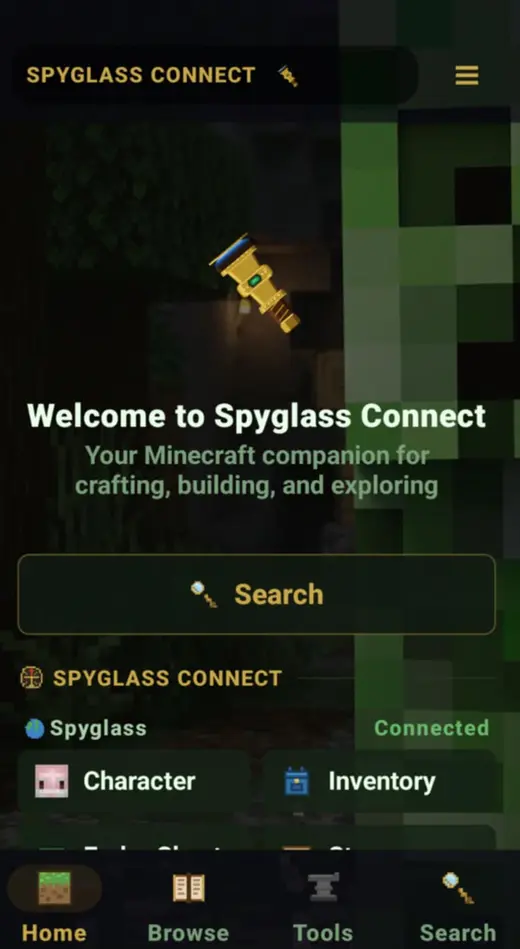
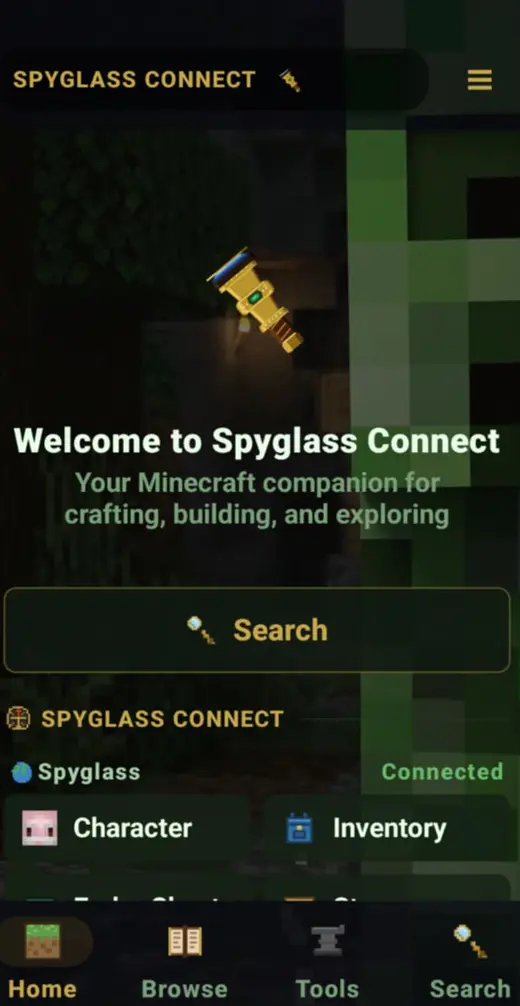
Warmer screenshot bg, brighter overlays, uniform screenshot sizes
Screenshots section: #543B30 -> #5C3A24 (more orange, less brown).
Hero overlay: 0.38 -> 0.48. Security overlay: 0.2 -> 0.3.
All 5 app screenshots re-exported to uniform 520x1006.

diff --git a/de/spyglass-connect.html b/de/spyglass-connect.html
@@ -153,7 +153,7 @@ body {
   top: 0; left: 0; right: 0;
   bottom: 80px;
   background: url('/images/hero-bg-mobile.webp') center top / cover no-repeat;
-  opacity: 0.38;
+  opacity: 0.48;
   z-index: 0;
   pointer-events: none;
   -webkit-mask-image: linear-gradient(to bottom, black 60%, transparent 100%);
@@ -384,7 +384,7 @@ section { position: relative; z-index: 1; padding: 5rem 1.5rem; }
    SCREENSHOTS SECTION
    ═══════════════════════════════════════ */
 .screenshots-section {
-  background: linear-gradient(to bottom, var(--bg-void) 0%, #543B30 8%, #543B30 92%, var(--bg-void) 100%);
+  background: linear-gradient(to bottom, var(--bg-void) 0%, #5C3A24 8%, #5C3A24 92%, var(--bg-void) 100%);
 }
 
 .howit-section {
@@ -401,7 +401,7 @@ section { position: relative; z-index: 1; padding: 5rem 1.5rem; }
   position: absolute;
   inset: 0;
   background: url('/images/screenshots-bg-mobile.webp') center center / cover no-repeat;
-  opacity: 0.2;
+  opacity: 0.3;
   z-index: 0;
   pointer-events: none;
   -webkit-mask-image: linear-gradient(to bottom, transparent 0%, black 15%, black 85%, transparent 100%);

diff --git a/es/spyglass-connect.html b/es/spyglass-connect.html
@@ -153,7 +153,7 @@ body {
   top: 0; left: 0; right: 0;
   bottom: 80px;
   background: url('/images/hero-bg-mobile.webp') center top / cover no-repeat;
-  opacity: 0.38;
+  opacity: 0.48;
   z-index: 0;
   pointer-events: none;
   -webkit-mask-image: linear-gradient(to bottom, black 60%, transparent 100%);
@@ -384,7 +384,7 @@ section { position: relative; z-index: 1; padding: 5rem 1.5rem; }
    SCREENSHOTS SECTION
    ═══════════════════════════════════════ */
 .screenshots-section {
-  background: linear-gradient(to bottom, var(--bg-void) 0%, #543B30 8%, #543B30 92%, var(--bg-void) 100%);
+  background: linear-gradient(to bottom, var(--bg-void) 0%, #5C3A24 8%, #5C3A24 92%, var(--bg-void) 100%);
 }
 
 .howit-section {
@@ -401,7 +401,7 @@ section { position: relative; z-index: 1; padding: 5rem 1.5rem; }
   position: absolute;
   inset: 0;
   background: url('/images/screenshots-bg-mobile.webp') center center / cover no-repeat;
-  opacity: 0.2;
+  opacity: 0.3;
   z-index: 0;
   pointer-events: none;
   -webkit-mask-image: linear-gradient(to bottom, transparent 0%, black 15%, black 85%, transparent 100%);

diff --git a/fr/spyglass-connect.html b/fr/spyglass-connect.html
@@ -153,7 +153,7 @@ body {
   top: 0; left: 0; right: 0;
   bottom: 80px;
   background: url('/images/hero-bg-mobile.webp') center top / cover no-repeat;
-  opacity: 0.38;
+  opacity: 0.48;
   z-index: 0;
   pointer-events: none;
   -webkit-mask-image: linear-gradient(to bottom, black 60%, transparent 100%);
@@ -384,7 +384,7 @@ section { position: relative; z-index: 1; padding: 5rem 1.5rem; }
    SCREENSHOTS SECTION
    ═══════════════════════════════════════ */
 .screenshots-section {
-  background: linear-gradient(to bottom, var(--bg-void) 0%, #543B30 8%, #543B30 92%, var(--bg-void) 100%);
+  background: linear-gradient(to bottom, var(--bg-void) 0%, #5C3A24 8%, #5C3A24 92%, var(--bg-void) 100%);
 }
 
 .howit-section {
@@ -401,7 +401,7 @@ section { position: relative; z-index: 1; padding: 5rem 1.5rem; }
   position: absolute;
   inset: 0;
   background: url('/images/screenshots-bg-mobile.webp') center center / cover no-repeat;
-  opacity: 0.2;
+  opacity: 0.3;
   z-index: 0;
   pointer-events: none;
   -webkit-mask-image: linear-gradient(to bottom, transparent 0%, black 15%, black 85%, transparent 100%);

diff --git a/ja/spyglass-connect.html b/ja/spyglass-connect.html
@@ -153,7 +153,7 @@ body {
   top: 0; left: 0; right: 0;
   bottom: 80px;
   background: url('/images/hero-bg-mobile.webp') center top / cover no-repeat;
-  opacity: 0.38;
+  opacity: 0.48;
   z-index: 0;
   pointer-events: none;
   -webkit-mask-image: linear-gradient(to bottom, black 60%, transparent 100%);
@@ -384,7 +384,7 @@ section { position: relative; z-index: 1; padding: 5rem 1.5rem; }
    SCREENSHOTS SECTION
    ═══════════════════════════════════════ */
 .screenshots-section {
-  background: linear-gradient(to bottom, var(--bg-void) 0%, #543B30 8%, #543B30 92%, var(--bg-void) 100%);
+  background: linear-gradient(to bottom, var(--bg-void) 0%, #5C3A24 8%, #5C3A24 92%, var(--bg-void) 100%);
 }
 
 .howit-section {
@@ -401,7 +401,7 @@ section { position: relative; z-index: 1; padding: 5rem 1.5rem; }
   position: absolute;
   inset: 0;
   background: url('/images/screenshots-bg-mobile.webp') center center / cover no-repeat;
-  opacity: 0.2;
+  opacity: 0.3;
   z-index: 0;
   pointer-events: none;
   -webkit-mask-image: linear-gradient(to bottom, transparent 0%, black 15%, black 85%, transparent 100%);

diff --git a/pt/spyglass-connect.html b/pt/spyglass-connect.html
@@ -153,7 +153,7 @@ body {
   top: 0; left: 0; right: 0;
   bottom: 80px;
   background: url('/images/hero-bg-mobile.webp') center top / cover no-repeat;
-  opacity: 0.38;
+  opacity: 0.48;
   z-index: 0;
   pointer-events: none;
   -webkit-mask-image: linear-gradient(to bottom, black 60%, transparent 100%);
@@ -384,7 +384,7 @@ section { position: relative; z-index: 1; padding: 5rem 1.5rem; }
    SCREENSHOTS SECTION
    ═══════════════════════════════════════ */
 .screenshots-section {
-  background: linear-gradient(to bottom, var(--bg-void) 0%, #543B30 8%, #543B30 92%, var(--bg-void) 100%);
+  background: linear-gradient(to bottom, var(--bg-void) 0%, #5C3A24 8%, #5C3A24 92%, var(--bg-void) 100%);
 }
 
 .howit-section {
@@ -401,7 +401,7 @@ section { position: relative; z-index: 1; padding: 5rem 1.5rem; }
   position: absolute;
   inset: 0;
   background: url('/images/screenshots-bg-mobile.webp') center center / cover no-repeat;
-  opacity: 0.2;
+  opacity: 0.3;
   z-index: 0;
   pointer-events: none;
   -webkit-mask-image: linear-gradient(to bottom, transparent 0%, black 15%, black 85%, transparent 100%);

diff --git a/spyglass-connect.html b/spyglass-connect.html
@@ -153,7 +153,7 @@ body {
   top: 0; left: 0; right: 0;
   bottom: 80px;
   background: url('/images/hero-bg-mobile.webp') center top / cover no-repeat;
-  opacity: 0.38;
+  opacity: 0.48;
   z-index: 0;
   pointer-events: none;
   -webkit-mask-image: linear-gradient(to bottom, black 60%, transparent 100%);
@@ -384,7 +384,7 @@ section { position: relative; z-index: 1; padding: 5rem 1.5rem; }
    SCREENSHOTS SECTION
    ═══════════════════════════════════════ */
 .screenshots-section {
-  background: linear-gradient(to bottom, var(--bg-void) 0%, #543B30 8%, #543B30 92%, var(--bg-void) 100%);
+  background: linear-gradient(to bottom, var(--bg-void) 0%, #5C3A24 8%, #5C3A24 92%, var(--bg-void) 100%);
 }
 
 .howit-section {
@@ -401,7 +401,7 @@ section { position: relative; z-index: 1; padding: 5rem 1.5rem; }
   position: absolute;
   inset: 0;
   background: url('/images/screenshots-bg-mobile.webp') center center / cover no-repeat;
-  opacity: 0.2;
+  opacity: 0.3;
   z-index: 0;
   pointer-events: none;
   -webkit-mask-image: linear-gradient(to bottom, transparent 0%, black 15%, black 85%, transparent 100%);
